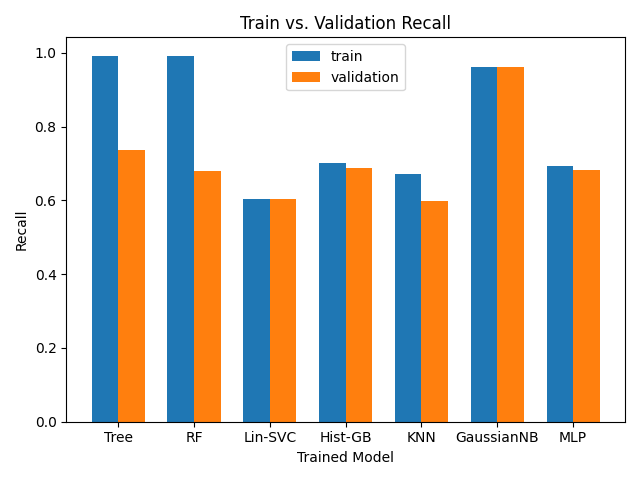
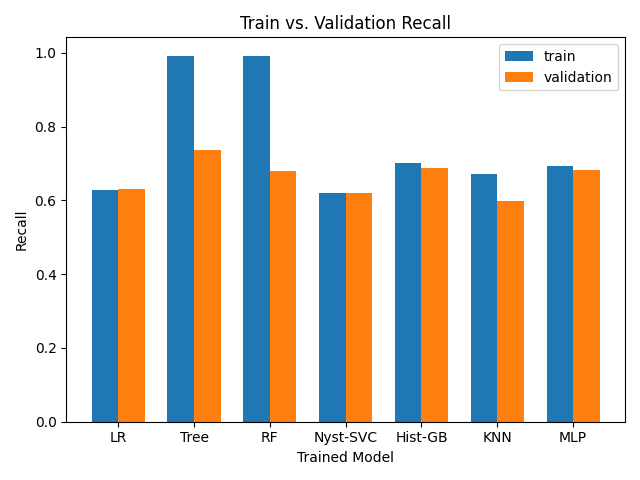
Repeat and improve shortlisting experiment

diff --git a/src/diabetes_prediction/mlflow/shortlist.py b/src/diabetes_prediction/mlflow/shortlist.py
@@ -1,11 +1,13 @@
 import mlflow
 import pandas as pd
 from sklearn.ensemble import RandomForestClassifier, HistGradientBoostingClassifier
-from sklearn.naive_bayes import GaussianNB
+from sklearn.linear_model import LogisticRegression
 from sklearn.neighbors import KNeighborsClassifier
-from sklearn.neural_network import MLPClassifier
+from sklearn.kernel_approximation import Nystroem
 from sklearn.svm import LinearSVC
 from sklearn.tree import DecisionTreeClassifier
+from sklearn.neural_network import MLPClassifier
+from sklearn.pipeline import make_pipeline
 from tqdm import tqdm
 
 from ..config import config
@@ -14,48 +16,66 @@ from ..utils import feature_target_split, mlflow_register
 from ..utils import plot_metrics, train_and_validate
 
 
+def get_svc_model():
+    rs = config.RANDOM_STATE
+    svc = make_pipeline(
+        Nystroem(gamma=0.2, random_state=rs),
+        LinearSVC(dual=False, random_state=rs),
+    )
+    return svc
+
+
 # Train and validate several models on given train data
 def train_candidate_models(x_train, y_train):
     # Pick a random state for repeatability
-    rs = 147
+    rs = config.RANDOM_STATE
 
-    train_metrics = []
-    val_metrics = []
+    agg_metrics = []
     model_names = [
-        "Tree", "RF", "Lin-SVC", "Hist-GB", "KNN", "GaussianNB", "MLP"
+        "LR", "Tree", "RF", "Nyst-SVC", "Hist-GB", "KNN", "MLP"
     ]
     models = [
+        LogisticRegression(max_iter=1000, random_state=rs),
         DecisionTreeClassifier(random_state=rs),
         RandomForestClassifier(random_state=rs),
-        LinearSVC(random_state=rs),
+        get_svc_model(),
         HistGradientBoostingClassifier(random_state=rs),
         KNeighborsClassifier(),
-        GaussianNB(),
-        MLPClassifier(random_state=rs),
+        MLPClassifier(random_state=rs)
     ]
 
     mlflow.set_tracking_uri("http://localhost:5000")
     experiment = mlflow.set_experiment("model-shortlisting")
     for name, model in tqdm(zip(model_names, models)):
         print(f"\nTraining '{name}' model...")
-        train_recall, val_recall = train_and_validate(model, x_train, y_train)
-        train_metrics.append(train_recall)
-        val_metrics.append(val_recall)
-        metrics = {
-            "Training Recall": train_recall,
-            "Validation Recall": val_recall,
-        }
-        mlflow_register(model, name, name, metrics)
+        metrics = train_and_validate(model, x_train, y_train)
+        agg_metrics.append(metrics)
+        mlflow_register(model, name, x_train, name, dict(list(metrics.items())))
 
     print("Plotting metrics...")
-    plot_metrics(train_metrics, val_metrics, model_names)
+    metric_names = ["Recall", "Precision", "FScore"]
+    df_metrics = pd.DataFrame(agg_metrics, index=model_names)
 
     with mlflow.start_run(
         run_name="Performance",
         experiment_id=experiment.experiment_id
-    ):
-        path = config.METRICS_PATH / "Train_Val_Recall.png"
+    ) as run:
+        for metric_name in metric_names:
+            plot_metrics(
+                df_metrics[f"Train {metric_name}"],
+                df_metrics[f"Val {metric_name}"],
+                metric_name,
+                model_names
+            )
+            path = config.METRICS_PATH / f"Train_Val_{metric_name}.png"
+            mlflow.log_artifact(path)
+
+        # NOTE: sle stands for ShortListing Experiment
+        path = config.METRICS_PATH / "sle_metrics.csv"
+        df_metrics.to_csv(path, index=True, header=True)
         mlflow.log_artifact(path)
+        mlflow.set_tag("project", config.PROJECT_NAME)
+        mlflow.set_tag("run_id", run.info.run_id)
         mlflow.end_run()
 
 

diff --git a/src/diabetes_prediction/utils.py b/src/diabetes_prediction/utils.py
@@ -2,11 +2,12 @@ import numpy as np
 import pandas as pd
 import matplotlib.pyplot as plt
 from sklearn.metrics import \
-    recall_score, precision_recall_fscore_support, precision_recall_curve
+    precision_recall_fscore_support, precision_recall_curve
 from sklearn.metrics import confusion_matrix, ConfusionMatrixDisplay
 from sklearn.metrics import RocCurveDisplay, PrecisionRecallDisplay
-from sklearn.model_selection import cross_val_score
+from sklearn.model_selection import cross_validate
 import mlflow
+from mlflow.models import infer_signature
 
 from .config import config
 
@@ -36,24 +37,34 @@ def evaluate_model(model, x, y, name: str | None = None):
     return metrics
 
 
-# Train a model and return train/validation Recall
+# Train a model and return train/validation metrics
 def train_and_validate(model, x_train, y_train, cv=5):
     model.fit(x_train, y_train)
 
-    # Training Recall
+    # Training metrics
     y_predict = model.predict(x_train)
-    train_recall = recall_score(y_train, y_predict)
-
-    # Validation Recall
-    val_recall = cross_val_score(
-        model, x_train, y_train, scoring="recall", cv=cv
+    precision, recall, fscore, _ = precision_recall_fscore_support(
+        y_train, y_predict, average="binary"
     )
 
-    return train_recall, val_recall.mean()
+    # Validation metrics
+    scoring = ["precision", "recall", "f1"]
+    scores = cross_validate(
+        model, x_train, y_train, scoring=scoring, cv=cv
+    )
+
+    return pd.Series({
+        "Train Recall": recall,
+        "Val Recall": scores["test_recall"].mean(),
+        "Train Precision": precision,
+        "Val Precision": scores["test_precision"].mean(),
+        "Train FScore": fscore,
+        "Val FScore": scores["test_f1"].mean(),
+    })
 
 
 # Plot side-by-side train/validation metrics in a bar chart
-def plot_metrics(train, val, names):
+def plot_metrics(train, val, metric, names):
     fig, ax = plt.subplots()
     bar_width = 0.35
     index = np.arange(len(names))
@@ -62,15 +73,15 @@ def plot_metrics(train, val, names):
     ax.bar(index + bar_width, val, bar_width, label="validation")
 
     ax.set_xlabel("Trained Model")
-    ax.set_ylabel("Recall")
-    ax.set_title("Train vs. Validation Recall")
+    ax.set_ylabel(metric)
+    ax.set_title(f"Train vs. Validation {metric}")
     ax.set_xticks(index + bar_width / 2)
     ax.set_xticklabels(names)
 
     ax.legend(loc="best")
     fig.tight_layout()
 
-    path = config.METRICS_PATH / "Train_Val_Recall.png"
+    path = config.METRICS_PATH / f"Train_Val_{metric}.png"
     plt.savefig(path)
     plt.close()
 
@@ -111,12 +122,15 @@ def plot_pr_curve(model, x, y):
 
 # Log model attributes in current MLFlow experiment
 def mlflow_register(
-        model, model_name: str, run_name: str, metrics: dict[str, float]
+        model, model_name: str, x_train, run_name: str, metrics: dict[str, float]
 ):
-    with mlflow.start_run(run_name=run_name):
+    with mlflow.start_run(run_name=run_name) as run:
         mlflow.set_tag("project", config.PROJECT_NAME)
+        mlflow.set_tag("run_id", run.info.run_id)
         mlflow.log_params(model.get_params())
         mlflow.log_metrics(metrics)
-        mlflow.sklearn.log_model(model, name=model_name)
+
+        signature = infer_signature(x_train, model.predict(x_train))
+        mlflow.sklearn.log_model(model, name=model_name, signature=signature)
 
         mlflow.end_run()

diff --git a/src/diabetes_prediction/pipeline.py b/src/diabetes_prediction/pipeline.py
@@ -4,7 +4,7 @@ from sklearn.impute import SimpleImputer
 from sklearn.pipeline import make_pipeline
 from sklearn.preprocessing import OneHotEncoder, StandardScaler
 
-from config import config
+from .config import config
 
 
 def build_pipeline() -> ColumnTransformer:
